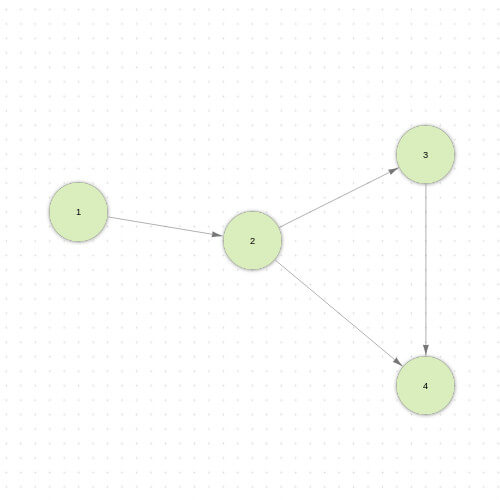
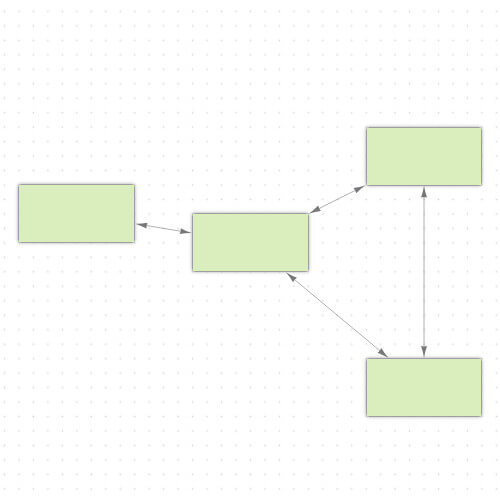
added dynamic port offset docs

diff --git a/static/use-cases/direct-edge-rectangular-nodes/index.html b/static/use-cases/direct-edge-rectangular-nodes/index.html
@@ -76,7 +76,6 @@
             .addNode(
               this.createNode({
                 id: "node-1",
-                name: "1",
                 x: 200,
                 y: 300,
               }),
@@ -84,7 +83,6 @@
             .addNode(
               this.createNode({
                 id: "node-2",
-                name: "2",
                 x: 500,
                 y: 350,
               }),
@@ -92,7 +90,6 @@
             .addNode(
               this.createNode({
                 id: "node-3",
-                name: "3",
                 x: 800,
                 y: 200,
               }),
@@ -100,7 +97,6 @@
             .addNode(
               this.createNode({
                 id: "node-4",
-                name: "4",
                 x: 800,
                 y: 600,
               }),
@@ -112,11 +108,10 @@
             .focus();
         }
 
-        createNode({ id, name, x, y }) {
+        createNode({ id, x, y }) {
           const node = document.createElement("div");
 
           node.classList.add("node");
-          node.innerText = name;
 
           return {
             element: node,

diff --git a/static/use-cases/direct-edge/index.html b/static/use-cases/direct-edge/index.html
@@ -75,7 +75,6 @@
             .addNode(
               this.createNode({
                 id: "node-1",
-                name: "1",
                 x: 200,
                 y: 300,
               }),
@@ -83,7 +82,6 @@
             .addNode(
               this.createNode({
                 id: "node-2",
-                name: "2",
                 x: 500,
                 y: 350,
               }),
@@ -91,7 +89,6 @@
             .addNode(
               this.createNode({
                 id: "node-3",
-                name: "3",
                 x: 800,
                 y: 200,
               }),
@@ -99,7 +96,6 @@
             .addNode(
               this.createNode({
                 id: "node-4",
-                name: "4",
                 x: 800,
                 y: 600,
               }),
@@ -111,11 +107,10 @@
             .focus();
         }
 
-        createNode({ id, name, x, y }) {
+        createNode({ id, x, y }) {
           const node = document.createElement("div");
 
           node.classList.add("node");
-          node.innerText = name;
 
           return {
             element: node,
